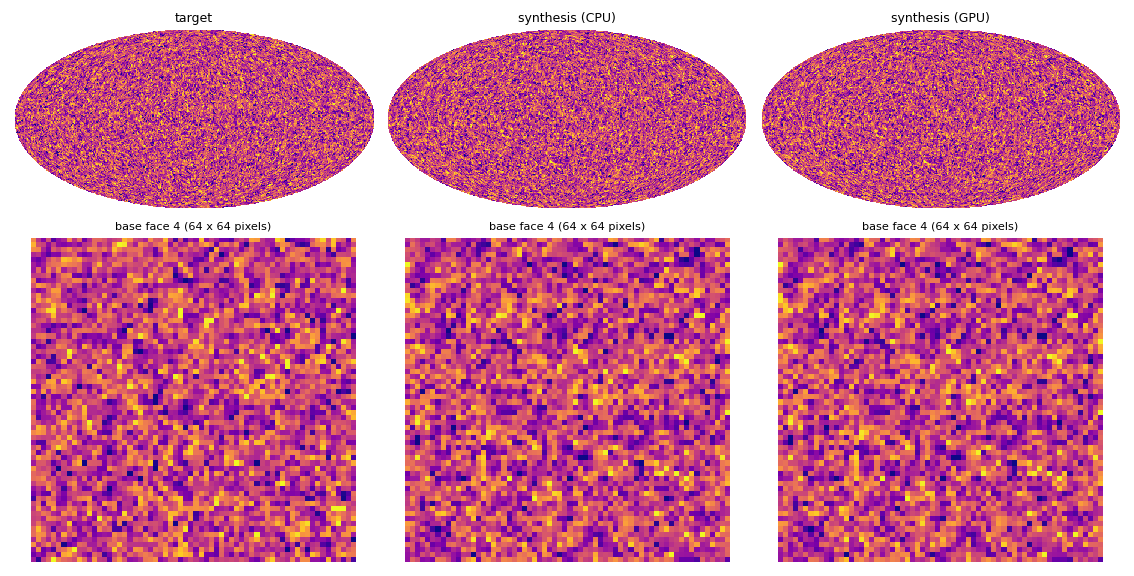
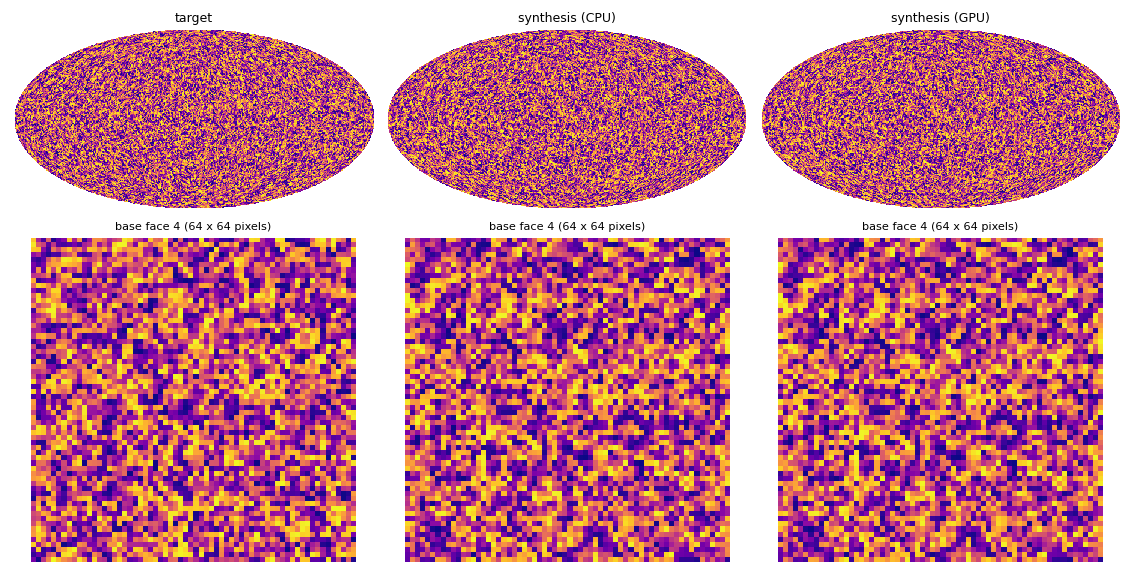
examples: histogram-equalised colour scale for HEALPix maps (norm=hist)
plotting.py maps: --norm hist (default), the rank of every value among the
first map's pixels, as healpy's mollview norm='hist', one scale for all
compared maps; --norm linear keeps the percentile range.  Figures of
examples 01 and 02 redrawn.

diff --git a/examples/plotting.py b/examples/plotting.py
@@ -1,13 +1,16 @@
 """Small figures for the examples (numpy, matplotlib, healpix_geo).
 
-    python examples/plotting.py maps OUT.png [--range P1,P2] TITLE=MAP.npy [TITLE=MAP.npy ...]
+    python examples/plotting.py maps OUT.png [--norm hist|linear] [--range P1,P2] TITLE=MAP.npy [TITLE=MAP.npy ...]
     python examples/plotting.py loss OUT.png LABEL=REPORT.json [LABEL=REPORT.json ...]
     python examples/plotting.py stats OUT.png STATS.json
     python examples/plotting.py summary REPORT.json [REPORT.json ...]
 
 maps     Mollweide views of NESTED maps and one base face of each (face 4,
-         on the equator), on the colour scale of the first map (percentiles
-         P1, P2, default 0.5, 99.5).
+         on the equator), on one colour scale for all maps.  --norm hist
+         (default, healpy's mollview norm='hist'): histogram equalisation by
+         the first map's pixel distribution, which balances the colours of
+         skewed fields such as the lensing convergence; --norm linear: the
+         [P1, P2] percentiles of the first map (default 0.5, 99.5).
 loss     loss against evaluation for stl-synth / stl-synth2d / stl-ensemble
          reports (field `loss_history`).
 stats    stl-stats output: S1 and S2 per scale (mean over orientations) and
@@ -53,15 +56,29 @@ def face_image(m, face):
     return m[face * nside * nside + ids][::-1]
 
 
+def hist_norm(reference):
+    """Histogram equalisation by the pixel distribution of `reference` (healpy's
+    norm='hist'): a value maps to its rank among the reference pixels, in [0, 1].
+    The same mapping is applied to every map, so their colours stay comparable."""
+    ref = np.sort(reference)
+    return lambda v: np.searchsorted(ref, v, side="left") / (ref.size - 1.0)
+
+
 def split_specs(args):
     return [(s.split("=", 1)[0], s.split("=", 1)[1]) for s in args]
 
 
-def plot_maps(out, specs, prange=(0.5, 99.5), face=4):
-    """Mollweide views (top row) and base face `face` of every map (bottom row)."""
+def plot_maps(out, specs, prange=(0.5, 99.5), face=4, norm="hist"):
+    """Mollweide views (top row) and base face `face` of every map (bottom row),
+    on the colour scale of the first map."""
     maps = [(t, np.load(p).astype(np.float64).reshape(-1)) for t, p in specs]
     nside = int(round((maps[0][1].size / 12) ** 0.5))
-    vmin, vmax = np.percentile(maps[0][1], prange)
+    if norm == "hist":
+        f = hist_norm(maps[0][1])
+        maps = [(t, f(m)) for t, m in maps]
+        vmin, vmax = 0.0, 1.0
+    else:
+        vmin, vmax = np.percentile(maps[0][1], prange)
     idx = mollweide_index(nside)
     n = len(maps)
     fig, axes = plt.subplots(2, n, figsize=(4.2 * n, 6.4), squeeze=False, gridspec_kw={"height_ratios": [1, 1.6]})
@@ -150,12 +167,16 @@ def main():
         return
     cmd, rest = argv[0], argv[1:]
     if cmd == "maps":
-        prange = (0.5, 99.5)
+        prange, norm = (0.5, 99.5), "hist"
+        if "--norm" in rest:
+            i = rest.index("--norm")
+            norm = rest[i + 1]
+            rest = rest[:i] + rest[i + 2 :]
         if "--range" in rest:
             i = rest.index("--range")
             prange = tuple(float(v) for v in rest[i + 1].split(","))
             rest = rest[:i] + rest[i + 2 :]
-        plot_maps(rest[0], split_specs(rest[1:]), prange)
+        plot_maps(rest[0], split_specs(rest[1:]), prange, norm=norm)
     elif cmd == "loss":
         plot_loss(rest[0], split_specs(rest[1:]))
     elif cmd == "stats":

diff --git a/examples/02_healpix_ensemble/README.md b/examples/02_healpix_ensemble/README.md
@@ -52,9 +52,10 @@ The production options at nside 1024 are the same with `--nside 1024`, `--ps-var
 ![loss](loss.png)
 
 Top: Mollweide views of the first reference (block-averaged to nside 64) and of two members;
-bottom: one base face. After this short run the members have the filaments and peaks of the
-references but are visibly clumpier, and their brightest peaks are too bright: the loss is still
-falling.
+bottom: one base face. All panels share one histogram-equalised colour scale, set by the
+reference's pixel distribution (healpy's `norm='hist'`), which balances the colours of the skewed
+κ field. After this short run the members have the large-scale structure of the references but
+not yet their network of thin filaments, and the loss is still falling.
 
 | Step | Time | Notes |
 |---|---|---|

diff --git a/examples/01_healpix_synthesis/README.md b/examples/01_healpix_synthesis/README.md
@@ -28,7 +28,8 @@ stl-synth --target target_map.npy --L 4 --weights ergodic --niter 100 --seed 1 -
 
 ![maps](maps.png)
 
-Top: Mollweide views; bottom: one base face (64 × 64 pixels). At nside 64 (pixels of 0.9°) the
+Top: Mollweide views; bottom: one base face (64 × 64 pixels). All panels share one
+histogram-equalised colour scale, set by the target (healpy's `norm='hist'`). At nside 64 (pixels of 0.9°) the
 WebSky κ map is dominated by small-scale fluctuations and looks almost Gaussian; the strongly
 non-Gaussian case is [example 02](https://github.com/jmdelouis/STL-Dev-MPI/tree/main/examples/02_healpix_ensemble).
 
